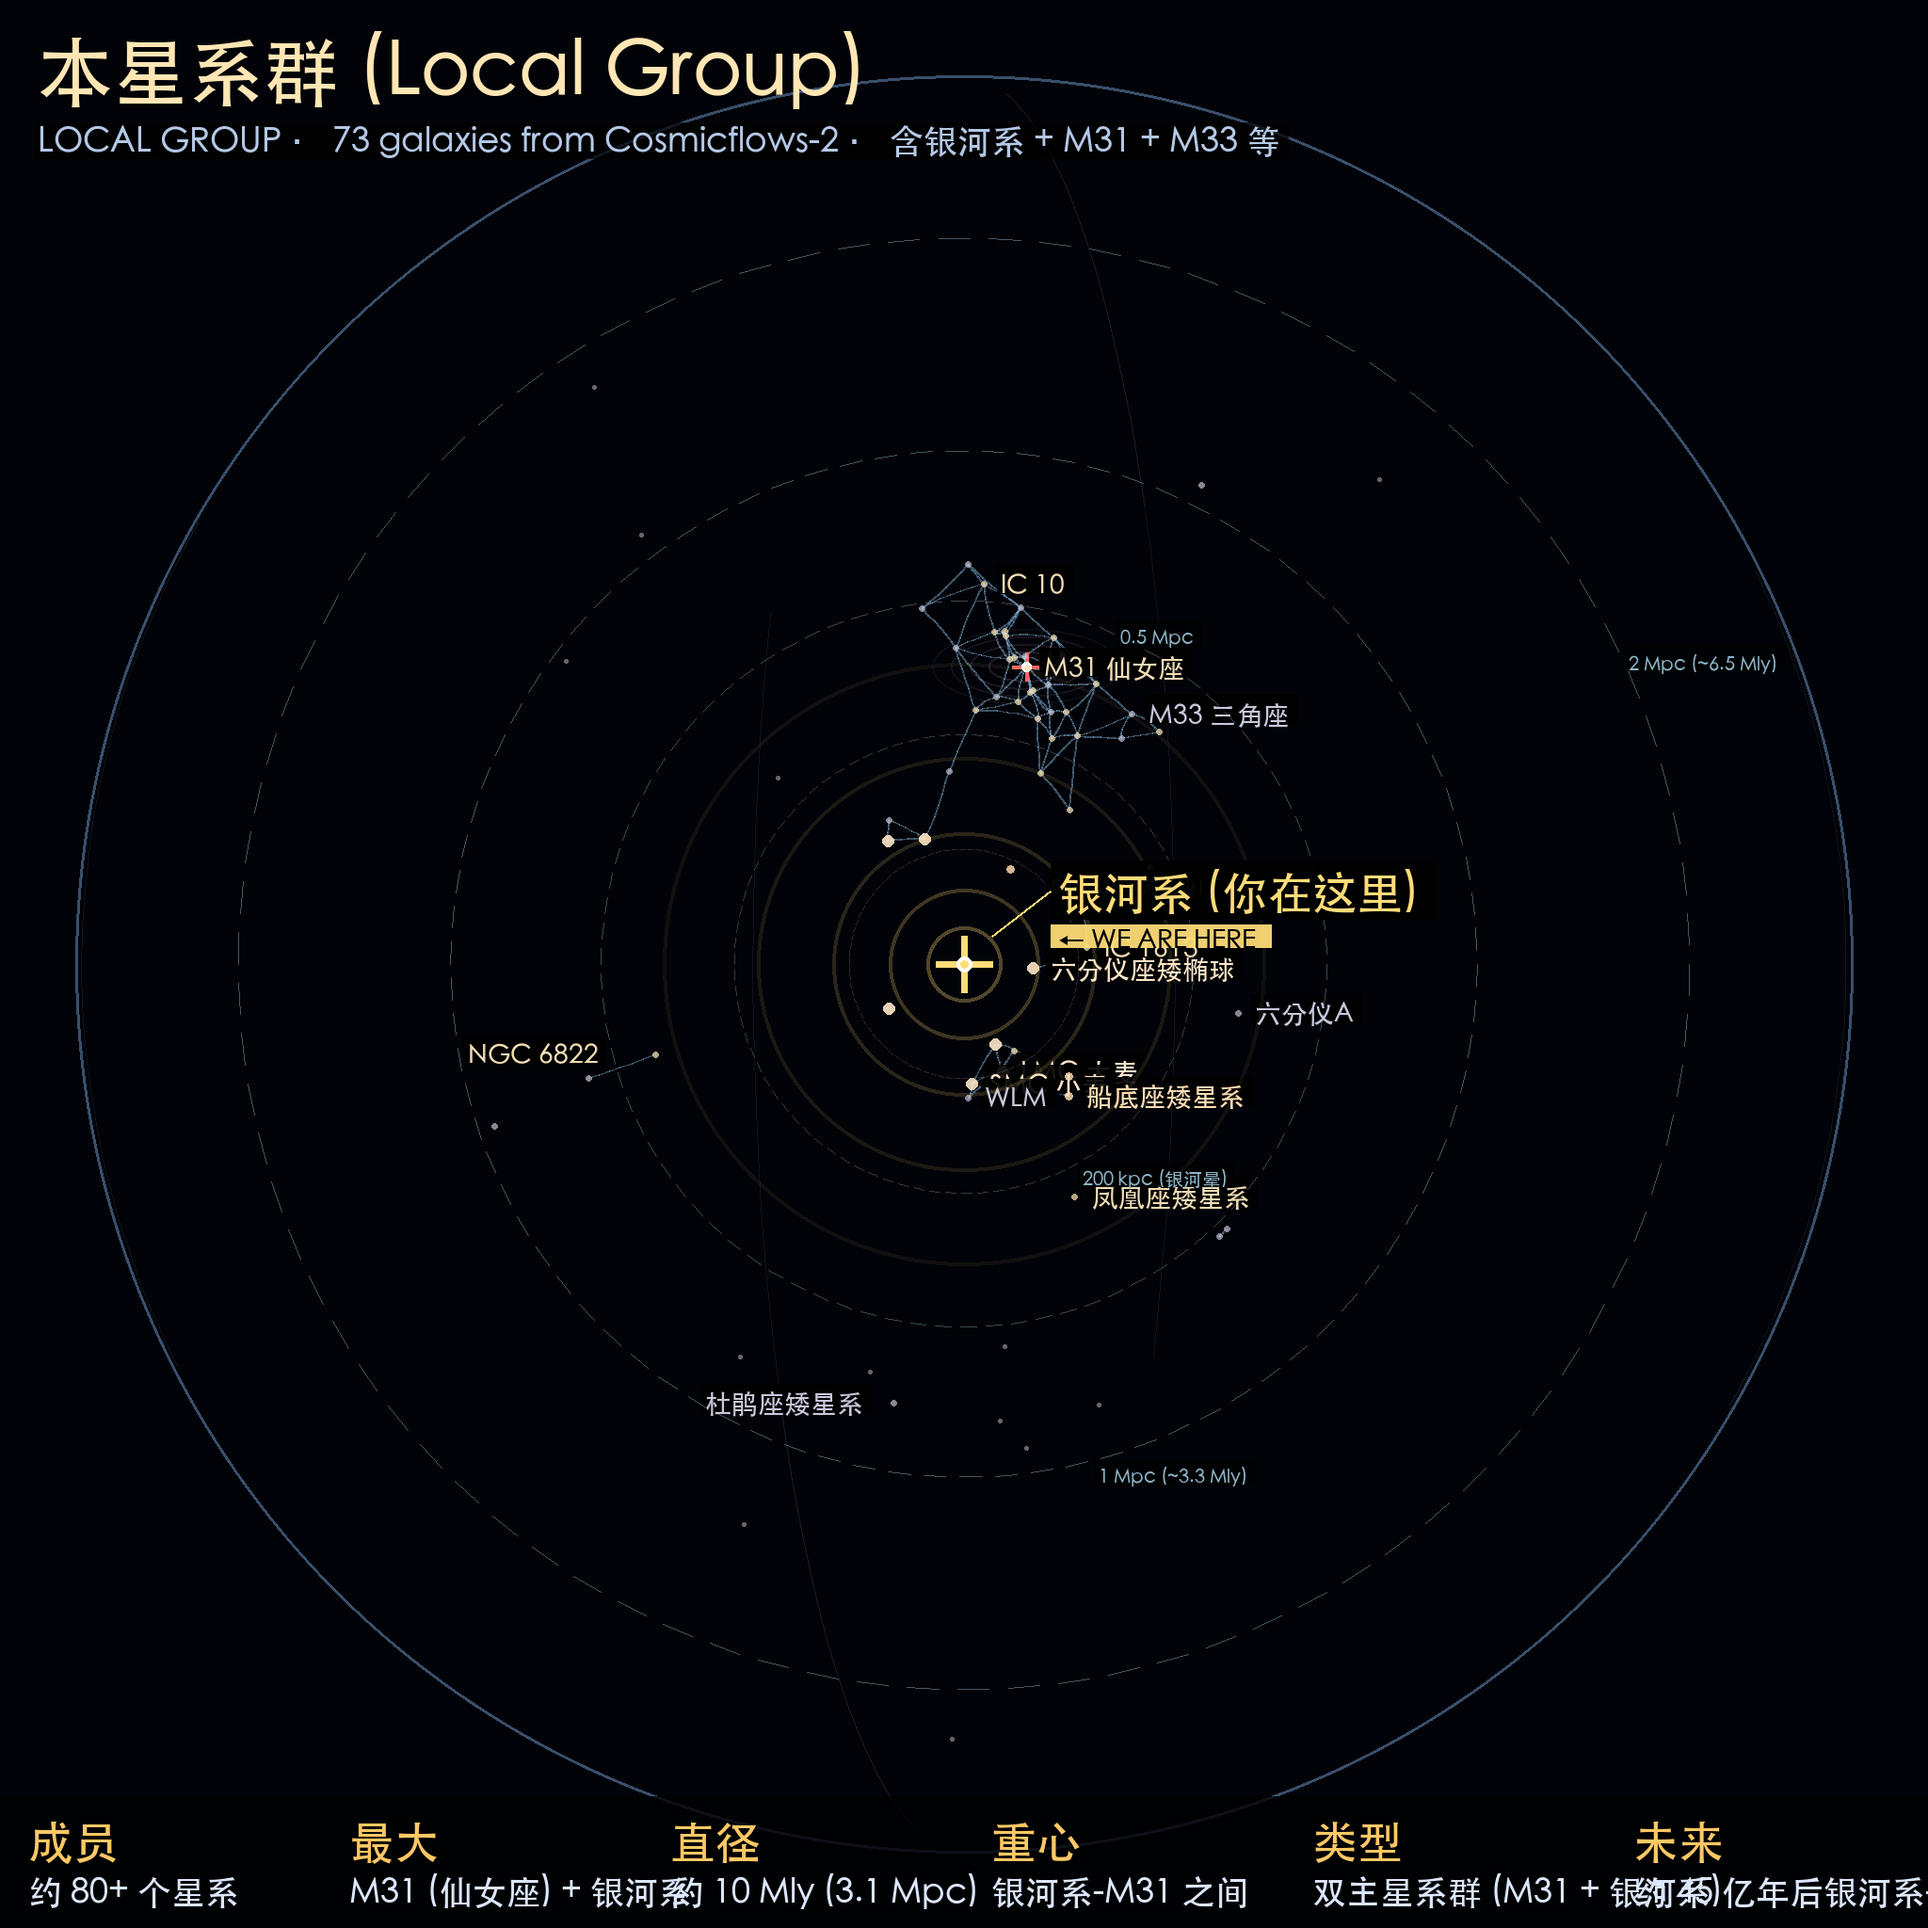
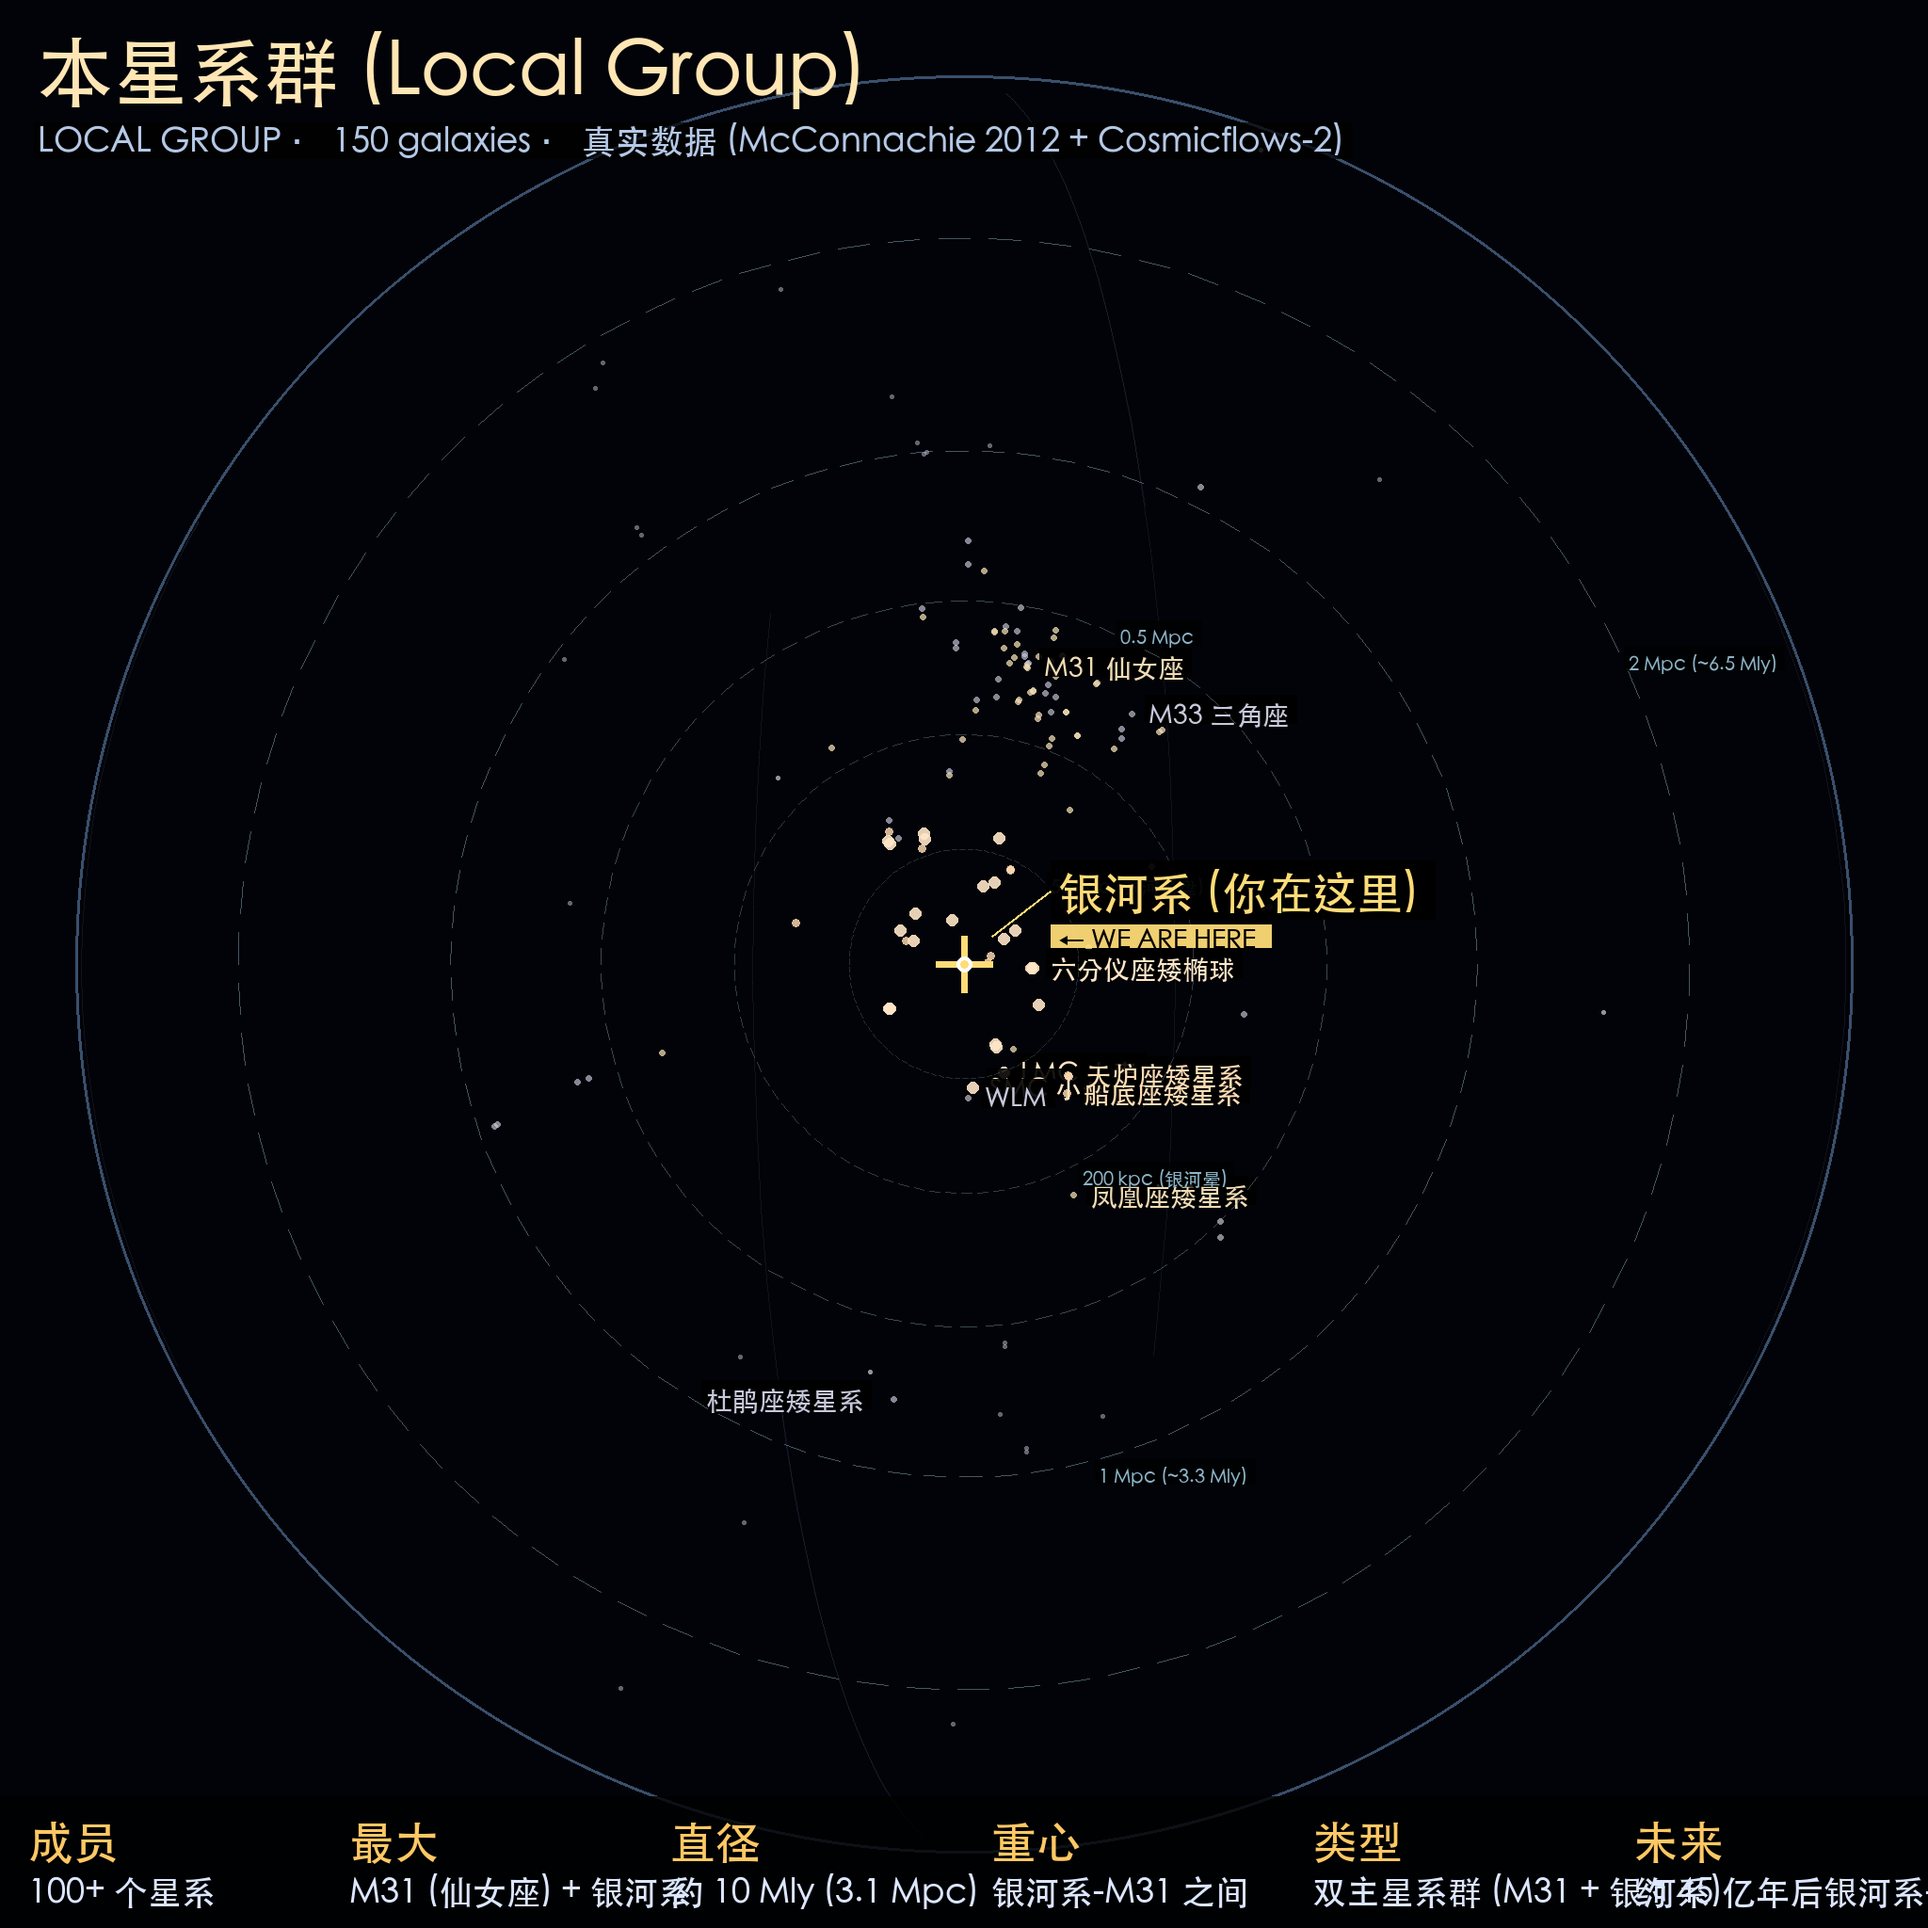
feat: 本星系群最真实版 - 150 真实星系(McConnachie完整成员目录) + 朴素渲染

diff --git a/index.html b/index.html
@@ -133,7 +133,7 @@
   <div style="position:absolute;top:18px;left:18px;color:rgba(255,255,255,0.95);z-index:60;">
     <div style="font-size:20px;font-weight:600;letter-spacing:1px;">🌃 本星系群 (Local Group)</div>
     <div style="font-size:12px;color:rgba(255,220,150,0.95);margin-top:4px;font-weight:600;letter-spacing:0.3px;">📍 上一级尺度: 🌌 银河系 (我们在这里)</div>
-    <div style="font-size:12px;color:rgba(255,255,255,0.6);margin-top:4px;">直径约 1000 万光年 · 含银河系、M31、M33 及 50+ 矮星系</div>
+    <div style="font-size:12px;color:rgba(255,255,255,0.6);margin-top:4px;">直径约 1000 万光年 · 150 颗真实星系 (McConnachie 2012 + Cosmicflows-2)</div>
   </div>
   <img src="/data/local_group.png" style="width:100%;height:100%;object-fit:contain;">
 </div>

diff --git a/gen_local_group_v4.py b/gen_local_group_v4.py
@@ -1,0 +1,254 @@
+#!/usr/bin/env python3
+"""本星系群 v4 - 纯粹真实
+数据: McConnachie 2012 (101 颗) + Cosmicflows-2 (73 颗) 合并去重 = 150 颗真实星系
+渲染: 朴素小圆点 (2-6px), 颜色按距离温和变化, 无 glow/光晕/装饰/虚假连线
+"""
+from PIL import Image, ImageDraw, ImageFont
+import math, os, json, re
+
+W = H = 2048
+CX, CY = W // 2, H // 2
+PROJECTION_RADIUS_PX = CY - 80  # 944
+OUT_DIR = os.path.join(os.path.dirname(__file__), 'data')
+OUT_FILE = os.path.join(OUT_DIR, 'local_group.png')
+
+
+def get_font(size):
+    paths = [
+        '/System/Library/Fonts/PingFang.ttc',
+        '/System/Library/Fonts/STHeiti Medium.ttc',
+        '/System/Library/Fonts/Helvetica.ttc',
+    ]
+    for p in paths:
+        if os.path.exists(p):
+            try: return ImageFont.truetype(p, size)
+            except: continue
+    return ImageFont.load_default()
+
+
+F_TINY = get_font(20)
+F_SMALL = get_font(28)
+F_MED = get_font(36)
+F_LARGE = get_font(48)
+F_TITLE = get_font(80)
+
+
+def norm_key(name):
+    s = re.sub(r'[^A-Z0-9]', '', name.upper())
+    s = re.sub(r'(NGC|IC|UGC|UGCA|ESO|DDO|KKR|KKH|UKS)(0+)(\d)', r'\1\3', s)
+    return s
+
+
+def load_galaxies():
+    """McConnachie 2012 + Cosmicflows-2 合并去重 -> [(name, ra, dec, d_mpc)]"""
+    mcc = json.load(open('/tmp/mcc_src/mcc_merged.json'))
+    cf2 = json.load(open('/tmp/cosmos_real/local_group_real.json'))
+
+    galaxies = {}
+    for m in mcc:
+        if not m['d_kpc']:
+            continue
+        if m['norm'] == 'MilkyWay':
+            continue
+        galaxies[norm_key(m['norm'])] = [m['name'].split(' (')[0], m['ra'], m['dec'], m['d_kpc'] / 1000.0]
+    for name, ra, dec, d in cf2:
+        k = norm_key(name)
+        if k not in galaxies:
+            galaxies[k] = [name, ra, dec, d]
+    return list(galaxies.values())
+
+
+def sphere_project(ra_deg, dec_deg, d_mpc, max_d=3.0):
+    MIN_VISIBLE_MPC = 0.03
+    if d_mpc > max_d: return None
+    d_use = max(d_mpc, MIN_VISIBLE_MPC)
+    r_pix = PROJECTION_RADIUS_PX * math.sqrt(d_use / max_d)
+    x = CX + r_pix * math.cos(math.radians(dec_deg)) * math.sin(math.radians(ra_deg))
+    y = CY - r_pix * math.sin(math.radians(dec_deg))
+    return x, y
+
+
+def in_disk(x, y):
+    return (x - CX) ** 2 + (y - CY) ** 2 <= PROJECTION_RADIUS_PX ** 2
+
+
+def draw_background_grid(draw):
+    gal_north_ra = math.radians(192.86)
+    incl = math.radians(62.87)
+    gal_north_ra_deg = 192.86
+    for l_deg in [0, 90, 180, 270]:
+        pts = []
+        for b_deg in range(-89, 90, 5):
+            sin_dec = math.sin(math.radians(b_deg)) * math.cos(incl) + \
+                      math.cos(math.radians(b_deg)) * math.sin(incl) * math.sin(math.radians(l_deg) - gal_north_ra)
+            dec = math.degrees(math.asin(sin_dec))
+            ra_offset = math.degrees(math.atan2(math.cos(incl) * math.sin(math.radians(l_deg) - gal_north_ra),
+                                                math.cos(math.radians(l_deg) - gal_north_ra)))
+            ra = (gal_north_ra_deg - 90 + ra_offset) % 360
+            pt = sphere_project(ra, dec, 3.0)
+            if pt and in_disk(*pt):
+                pts.append(pt)
+        if len(pts) > 1:
+            for i in range(len(pts) - 1):
+                draw.line([pts[i], pts[i+1]], fill=(60, 80, 110, 50), width=1)
+    pts_pos = []; pts_neg = []
+    for l_deg in range(0, 721, 2):
+        l = math.radians(l_deg / 2)
+        for b_deg in [15, -15]:
+            sin_dec = math.sin(math.radians(b_deg)) * math.cos(incl) + \
+                      math.cos(math.radians(b_deg)) * math.sin(incl) * math.sin(l - gal_north_ra)
+            dec = math.degrees(math.asin(sin_dec))
+            ra_offset = math.degrees(math.atan2(math.cos(incl) * math.sin(l - gal_north_ra),
+                                                math.cos(l - gal_north_ra)))
+            ra = (gal_north_ra_deg - 90 + ra_offset) % 360
+            pt = sphere_project(ra, dec, 3.0)
+            if pt and in_disk(*pt):
+                if b_deg > 0: pts_pos.append(pt)
+                else: pts_neg.append(pt)
+            break
+    if len(pts_pos) > 1 and len(pts_neg) > 1:
+        poly = pts_pos + list(reversed(pts_neg))
+        for _ in range(2):
+            draw.polygon(poly, fill=(0, 0, 0, 80))
+    draw.ellipse([CX - PROJECTION_RADIUS_PX, CY - PROJECTION_RADIUS_PX,
+                  CX + PROJECTION_RADIUS_PX, CY + PROJECTION_RADIUS_PX],
+                 outline=(80, 110, 150, 180), width=3)
+
+
+def draw_galaxies(draw, galaxies):
+    """朴素圆点: 距离越近越大/亮, 无 glow/装饰"""
+    FAMOUS = {
+        'NGC0224': 'M31 仙女座', 'NGC0598': 'M33 三角座', 'NGC0221': 'M32',
+        'NGC0205': 'M110', 'NGC0147': 'NGC 147', 'NGC0185': 'NGC 185',
+        'LMC': 'LMC 大麦', 'SMC': 'SMC 小麦', 'IC0010': 'IC 10',
+        'IC1613': 'IC 1613', 'NGC6822': 'NGC 6822', 'WLM': 'WLM',
+        'Phoenix': '凤凰座矮星系', 'Tucana': '杜鹃座矮星系',
+        'SextansA': '六分仪A', 'SextansdSp': '六分仪座矮椭球',
+        'Carina': '船底座矮星系', 'Fornax': '天炉座矮星系',
+    }
+    for name, ra, dec, d in galaxies:
+        pt = sphere_project(ra, dec, d, max_d=3.0)
+        if not pt or not in_disk(*pt):
+            continue
+        x, y = pt
+        if d < 0.1:
+            col = (255, 230, 200, 230); size = 6
+        elif d < 0.3:
+            col = (255, 220, 180, 210); size = 4
+        elif d < 0.8:
+            col = (240, 220, 180, 190); size = 3
+        elif d < 1.5:
+            col = (200, 200, 220, 170); size = 3
+        else:
+            col = (180, 180, 200, 140); size = 2
+        draw.ellipse([x-size, y-size, x+size, y+size], fill=col)
+        if name in FAMOUS:
+            label = FAMOUS[name]
+            offset_x, offset_y = 18, -14
+            if ra > 180:
+                offset_x, offset_y = -200, -14
+            tx, ty = x + offset_x, y + offset_y
+            tw = draw.textlength(label, font=F_SMALL)
+            draw.rectangle([tx-4, ty-6, tx+tw+8, ty+24], fill=(0, 0, 0, 230))
+            draw.text((tx, ty), label, fill=col, font=F_SMALL)
+
+
+def draw_mw_center(draw):
+    """银河系中心标记 (真实)"""
+    x, y = CX, CY
+    col = (255, 220, 120, 255)
+    draw.line([(x-30, y), (x+30, y)], fill=col, width=7)
+    draw.line([(x, y-30), (x, y+30)], fill=col, width=7)
+    draw.ellipse([x-8, y-8, x+8, y+8], fill=(255, 255, 255, 255))
+    draw.ellipse([x-4, y-4, x+4, y+4], fill=col)
+    label = '银河系 (你在这里)'
+    tx, ty = x + 100, y - 100
+    tw = draw.textlength(label, font=F_LARGE)
+    draw.rectangle([tx-8, ty-10, tx+tw+16, ty+52], fill=(0, 0, 0, 240))
+    draw.text((tx, ty), label, fill=col, font=F_LARGE)
+    sub = '← WE ARE HERE'
+    stw = draw.textlength(sub, font=F_SMALL)
+    draw.rectangle([tx-8, ty+58, tx+stw+16, ty+82], fill=(255, 220, 120, 240))
+    draw.text((tx, ty+60), sub, fill=(0, 0, 0), font=F_SMALL)
+    draw.line([(x+30, y-30), (tx-8, ty+22)], fill=col, width=2)
+
+
+def draw_scale_rings(draw):
+    rings = [
+        (0.05, '50 kpc (银河系盘)', (140, 180, 200, 60), -45),
+        (0.2,  '200 kpc (银河晕)',  (140, 180, 200, 80), 60),
+        (0.5,  '0.5 Mpc',           (140, 180, 200, 100), -65),
+        (1.0,  '1 Mpc (~3.3 Mly)',  (140, 180, 200, 120), 75),
+        (2.0,  '2 Mpc (~6.5 Mly)',  (140, 180, 200, 120), -25),
+    ]
+    for d_mpc, label, col, ang_deg in rings:
+        r_pix = PROJECTION_RADIUS_PX * math.sqrt(d_mpc / 3.0)
+        if r_pix < 8: continue
+        for ang in range(0, 360, 4):
+            a1 = math.radians(ang); a2 = math.radians(ang + 2.5)
+            x1 = CX + r_pix * math.cos(a1); y1 = CY + r_pix * math.sin(a1)
+            x2 = CX + r_pix * math.cos(a2); y2 = CY + r_pix * math.sin(a2)
+            draw.line([(x1, y1), (x2, y2)], fill=col, width=1)
+        label_x = CX + (r_pix + 8) * math.cos(math.radians(ang_deg))
+        label_y = CY + (r_pix + 8) * math.sin(math.radians(ang_deg))
+        tw = draw.textlength(label, font=F_TINY)
+        if 90 < ang_deg < 270:
+            anchor_x = label_x - tw
+        else:
+            anchor_x = label_x
+        draw.rectangle([anchor_x-4, label_y-8, anchor_x+tw+8, label_y+18], fill=(0, 0, 0, 200))
+        draw.text((anchor_x, label_y), label, fill=col, font=F_TINY)
+
+
+def draw_info_panel(img, draw):
+    panel_h = 140
+    overlay = Image.new('RGBA', (W, panel_h), (0, 0, 0, 200))
+    img.paste(overlay, (0, H - panel_h), overlay)
+    draw2 = ImageDraw.Draw(img, 'RGBA')
+    facts = [
+        ('成员',    '100+ 个星系'),
+        ('最大',    'M31 (仙女座) + 银河系'),
+        ('直径',    '约 10 Mly (3.1 Mpc)'),
+        ('重心',    '银河系-M31 之间'),
+        ('类型',    '双主星系群 (M31 + 银河系)'),
+        ('未来',    '约 45 亿年后银河系-M31 合并'),
+    ]
+    col_w = W // len(facts)
+    for i, (k, v) in enumerate(facts):
+        x = i * col_w + 30
+        y = H - panel_h + 24
+        draw2.text((x, y), k, fill=(255, 200, 100, 255), font=F_LARGE)
+        draw2.text((x, y + 60), v, fill=(220, 230, 255, 230), font=F_MED)
+    draw2.text((40, 36), '本星系群 (Local Group)', fill=(255, 230, 180, 255), font=F_TITLE)
+    sub = 'LOCAL GROUP · 150 galaxies · 真实数据 (McConnachie 2012 + Cosmicflows-2)'
+    tw = draw2.textlength(sub, font=F_MED)
+    draw2.rectangle([40-4, 130, 40+tw+8, 168], fill=(0, 0, 0, 180))
+    draw2.text((40, 132), sub, fill=(180, 200, 230, 230), font=F_MED)
+
+
+def main():
+    galaxies = load_galaxies()
+    print(f'[local_group v4] 真实星系 (合并去重): {len(galaxies)} 颗')
+
+    img = Image.new('RGB', (W, H), (2, 3, 8))
+    draw = ImageDraw.Draw(img, 'RGBA')
+
+    print('[1/4] 背景网格 + ZoA')
+    draw_background_grid(draw)
+
+    print('[2/4] 真实星系 (朴素圆点)')
+    draw_galaxies(draw, galaxies)
+
+    print('[3/4] 刻度环 + 银河系中心')
+    draw_scale_rings(draw)
+    draw_mw_center(draw)
+
+    print('[4/4] 信息面板')
+    draw_info_panel(img, draw)
+
+    img.save(OUT_FILE)
+    print(f'saved: {OUT_FILE} ({os.path.getsize(OUT_FILE) // 1024} KB)')
+
+
+if __name__ == '__main__':
+    main()

diff --git a/CHANGELOG.md b/CHANGELOG.md
@@ -1,5 +1,11 @@
 # Earth Explorer 更新日志
 
+## [Unreleased] — 2026-08-30
+
+### ✨ 本星系群视图增强 (纯真实)
+- 🆕 **星系数量 73 → 150**:合并 McConnachie 2012 完整成员目录 (arXiv:1204.1562, 101 颗含银河系全部卫星 + M31 全部伴星系) + Cosmicflows-2 补充去重
+- 🎯 **渲染纯净化**:仅画真实物理星系的小圆点, 去除 glow 光晕、背景星点、Delaunay 虚假连线、M31 旋臂示意
+
 ## [Unreleased] — 2026-08-28
 
 ### ✨ 新增
